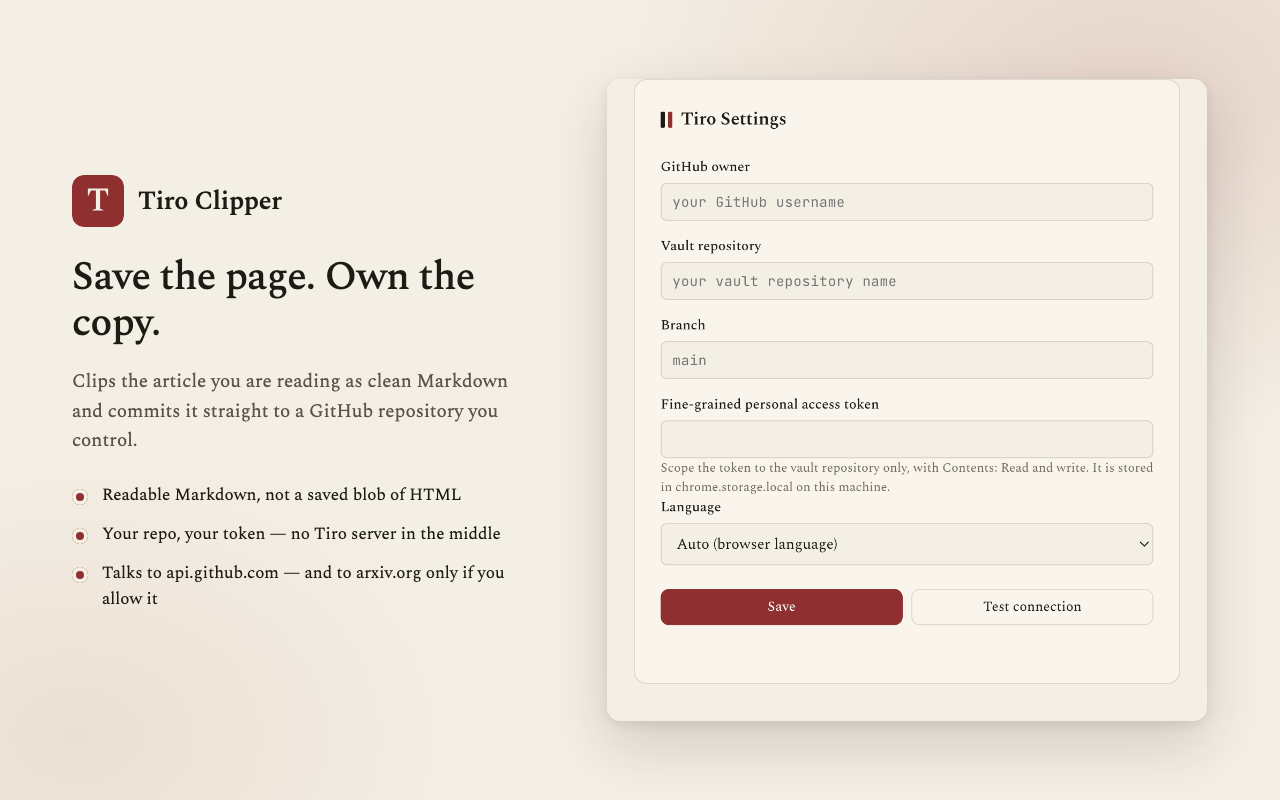
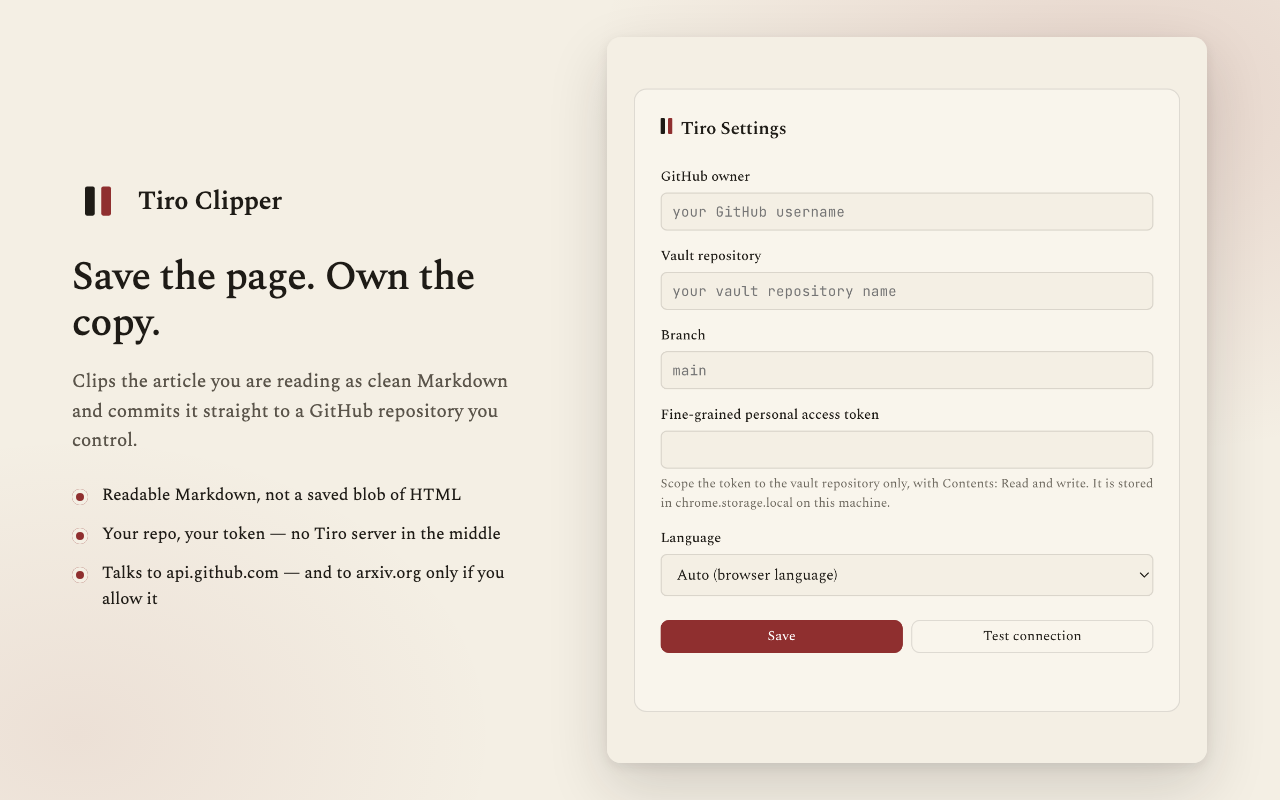
chore(extension): re-render the store images
Both compositions point at icons/icon.svg, so the promo tile and the screenshot
carried the old monogram. Re-rendered, they now show the two bars — and on the
tile's cream ground the tile's own cream disappears, leaving the bars beside the
wordmark, which is the header lockup.

Re-rendering turned up two things that were already wrong.

The images have been stale since before this branch. The last render was
2026-09-05; `fix(extension): restore the popup and options page margins` landed
after it and made the options page taller, and nothing re-captured it. So the
committed screenshot has been showing a settings card that no longer matched the
build, and would have gone to the dashboard that way at the next upload.

And the recipe's capture height had gone wrong with it. 560x600 no longer
contains the card: it clipped the bottom corner, which is the failure mode this
file already warns about in the other direction (an older 500 cut the buttons
off). The height is now measured rather than assumed — 677 is the card's 581
plus the body's 48px of paper either side — and the note says to re-measure when
the page changes height instead of trusting the number, since it has now
outlived two layout changes. The options capture is consequently 1120x1354.

options-ui.png is re-captured *after* the baseline fix in the previous commit,
so the settings header inside the screenshot shows the corrected lockup rather
than the 2px sag.

diff --git a/apps/extension/store/README.md b/apps/extension/store/README.md
@@ -59,7 +59,7 @@ trap 'pkill -f "http.server 4322"' EXIT
 until curl -sf -o /dev/null http://127.0.0.1:4322/src/options/options.html; do sleep 0.2; done
 
 "$CHROME" --headless --disable-gpu --hide-scrollbars \
-  --force-device-scale-factor=2 --window-size=560,600 \
+  --force-device-scale-factor=2 --window-size=560,677 \
   --screenshot="apps/extension/store/options-ui.png" \
   "http://127.0.0.1:4322/src/options/options.html?preview"
 
@@ -82,15 +82,21 @@ Confirm the sizes afterwards — the store rejects anything off by a pixel:
 ```sh
 file apps/extension/store/*.png
 # expect 1280x800 (screenshot) and 440x280 (promo tile) — the store uploads.
-# options-ui.png is 1120x1200: the 2x intermediate capture the screenshot
+# options-ui.png is 1120x1354: the 2x intermediate capture the screenshot
 # composition embeds, never uploaded itself.
 ```
 
 Notes that will save you a confused half hour:
 
-- `--window-size` is the crop, not a scale. 600 fits the settings card with
-  its paper margin above and below; the card grew with the redesign, so an
-  older 500 crops the buttons away.
+- `--window-size` is the crop, not a scale, and the right height is a
+  measurement, not a constant. 677 is the card (581) plus the body's 48px of
+  paper above and below; too small silently shaves the card's bottom corner off
+  rather than scaling it down. **Re-measure whenever the options page changes
+  height** — in the served dev build, `.card`'s `getBoundingClientRect()` plus
+  twice the body padding. The number has been wrong twice now: 500 cropped the
+  buttons away after the redesign, and 600 outlived the margins fix that
+  followed it, because these images are only re-rendered when someone
+  remembers to.
 - The compositions load Spectral from `../node_modules/@fontsource/spectral/`
   — the same files the popup ships — so they need `bun install` to have run.
   Their palette is the site's (ADR 0014): cream `#f4efe4`, oxblood `#8f2f2f`,
